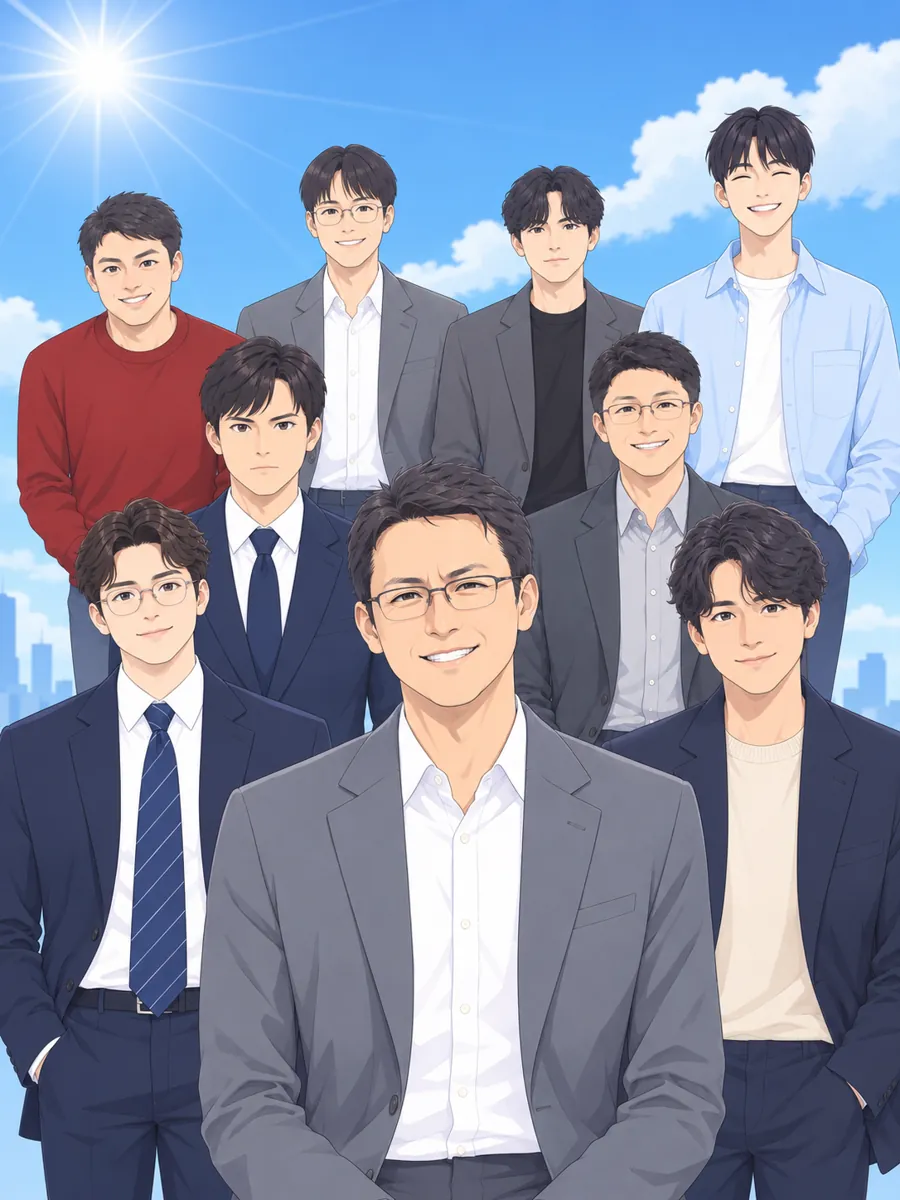
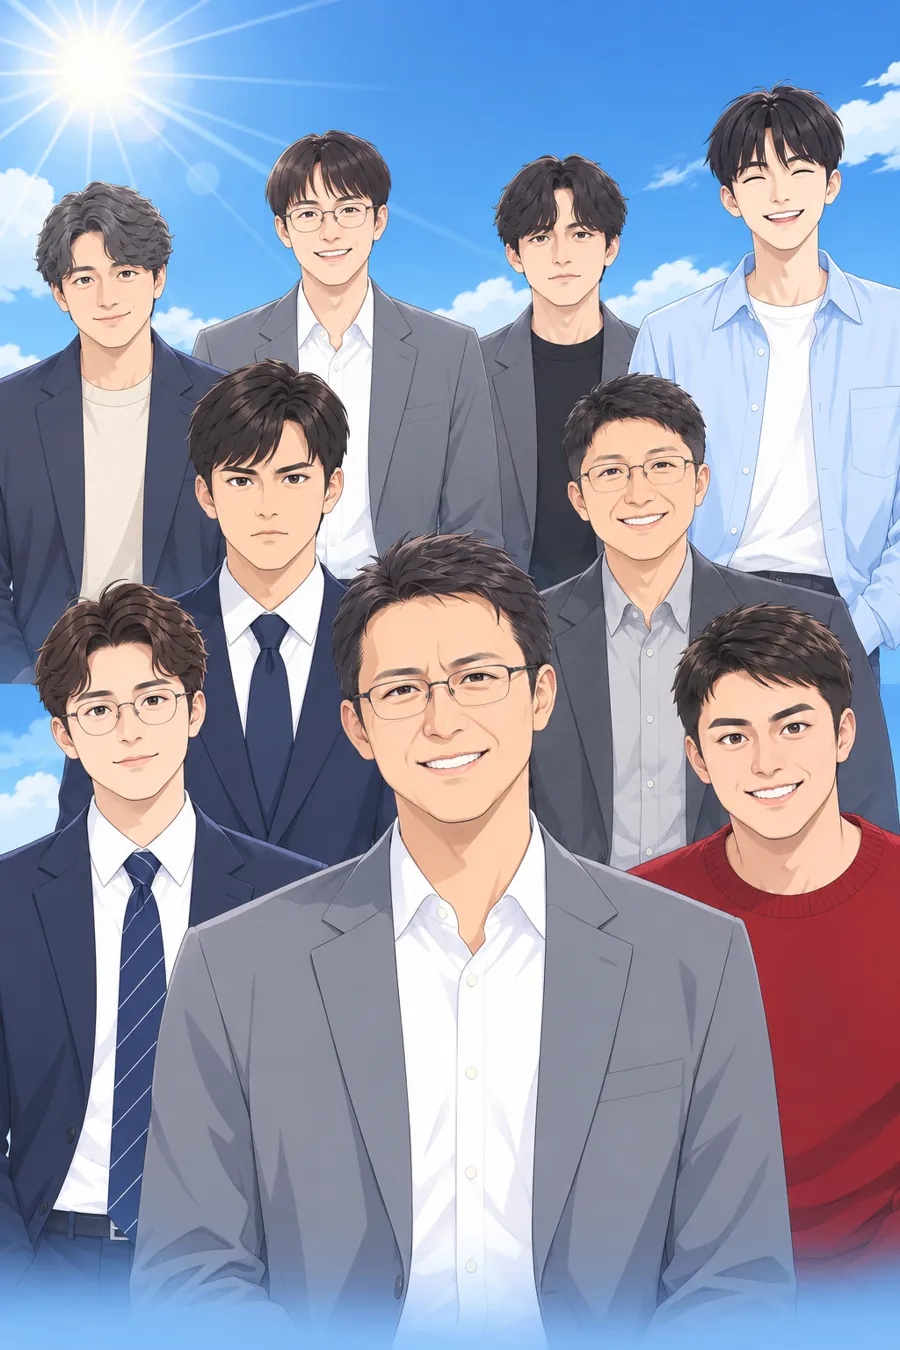
오프닝 그림 교체 (수정본), 잘림 없이 전체 표시

diff --git a/index.html b/index.html
@@ -8,7 +8,7 @@
 <link rel="preconnect" href="https://fonts.googleapis.com">
 <link rel="stylesheet" href="https://fonts.googleapis.com/css2?family=Jua&display=swap">
 <link rel="stylesheet" href="https://cdn.jsdelivr.net/gh/orioncactus/pretendard@v1.3.9/dist/web/static/pretendard.min.css">
-<link rel="stylesheet" href="css/style.css?v=41">
+<link rel="stylesheet" href="css/style.css?v=42">
 <link rel="manifest" href="manifest.webmanifest">
 <meta name="theme-color" content="#ff6f91" media="(prefers-color-scheme: light)">
 <meta name="theme-color" content="#1d1724" media="(prefers-color-scheme: dark)">
@@ -55,15 +55,15 @@
   <div id="toast"></div>
 </div>
 
-<script src="js/env.js?v=41"></script>
-<script src="js/art.js?v=41"></script>
-<script src="js/config.js?v=41"></script>
-<script src="js/data/library.js?v=41"></script>
-<script src="js/sprites.js?v=41"></script>
-<script src="js/store.js?v=41"></script>
-<script src="js/api.js?v=41"></script>
-<script src="js/office.js?v=41"></script>
-<script src="js/mini.js?v=41"></script>
-<script src="js/game.js?v=41"></script>
+<script src="js/env.js?v=42"></script>
+<script src="js/art.js?v=42"></script>
+<script src="js/config.js?v=42"></script>
+<script src="js/data/library.js?v=42"></script>
+<script src="js/sprites.js?v=42"></script>
+<script src="js/store.js?v=42"></script>
+<script src="js/api.js?v=42"></script>
+<script src="js/office.js?v=42"></script>
+<script src="js/mini.js?v=42"></script>
+<script src="js/game.js?v=42"></script>
 </body>
 </html>

diff --git a/css/style.css b/css/style.css
@@ -579,3 +579,7 @@ img.sprite.bust.illust { width: 135%; left: -17%; top: -3%; }
 #bg img.bgimg.opening, #opening img.opening { position: absolute; inset: 0; width: 100%; height: 100%; object-fit: contain; object-position: 50% 0; transform: none; filter: none; animation: none; }
 #bg img.bgimg.opening, #opening img.opening { inset: auto; top: 0; left: 50%; width: 100%; max-width: calc(100% * 0 + 75vh); height: auto; transform: translateX(-50%);
   -webkit-mask-image: linear-gradient(180deg, #000 82%, transparent); mask-image: linear-gradient(180deg, #000 82%, transparent); }
+/* 수정 오프닝(2:3): 화면이 넓어도 아래가 잘리지 않게 높이 기준 최대 폭 */
+#bg img.bgimg.opening, #opening img.opening { max-width: calc(100vh * 2 / 3); }
+#bg img.bgimg.opening, #opening img.opening { -webkit-mask-image: linear-gradient(180deg, #000 93%, transparent); mask-image: linear-gradient(180deg, #000 93%, transparent); }
+.op-fade { height: 34%; background: linear-gradient(180deg, rgba(20,30,70,0), rgba(20,30,70,.6) 40%, rgba(20,25,55,.88)); }

diff --git a/sw.js b/sw.js
@@ -1,7 +1,7 @@
 /* Service worker — required for Chrome's install prompt.
    Bump CACHE whenever you ship changed files, or returning viewers keep
    the old shell: a cache-first worker will happily serve last week's app. */
-const CACHE = "bmq-v41";
+const CACHE = "bmq-v42";
 const SHELL = [
   "./", "./index.html", "./manifest.webmanifest",
   "./icons/icon-192.png", "./icons/icon-512.png", "./icons/apple-touch-icon.png",
